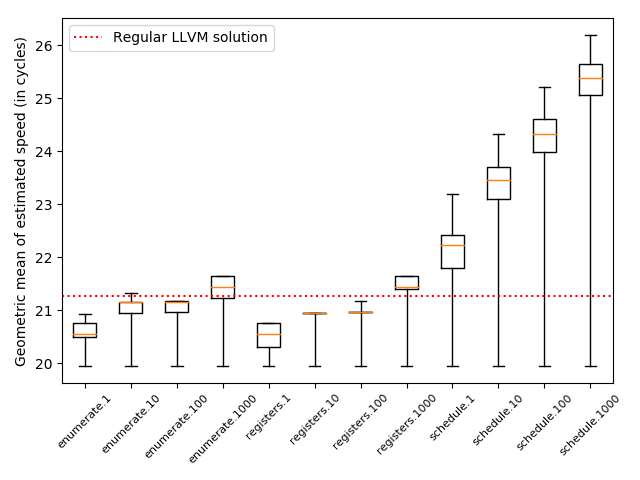
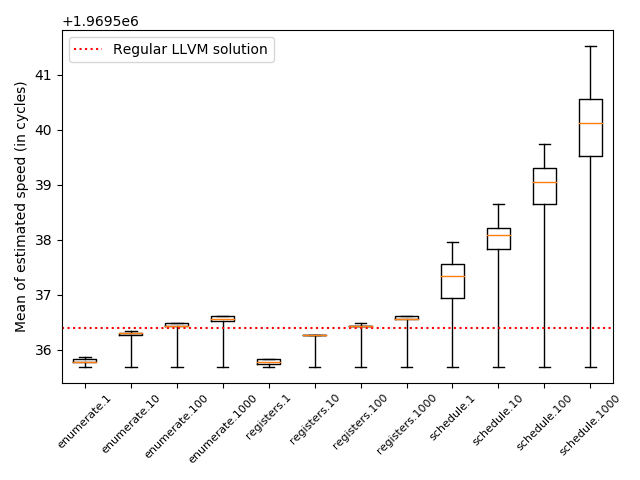
Change presentation of cost

diff --git a/results/result.tex b/results/result.tex
@@ -6,7 +6,7 @@ metric, but all general discussion will be in chapter \ref{chapter:discussion}.
 
 \section{Generation Time}
 
-\begin{figure}[h]
+\begin{figure}[ht]
 	\centering
 	\includegraphics[width=\textwidth,height=0.5\textheight]{results/figures/generator_time}
 	\caption{The execution time of the code generator at sampling rate 1000 (i.e 1000000 solutions for every function). Each marker represents the finished generation of a function. The markers are ordered so that the nth marker on every line represents the same function. Total time is annotated as hours and minutes.}
@@ -36,14 +36,14 @@ heuristic for the schedule strategy.
 \section{Cost}
 \label{sec:cost_result}
 
-\begin{figure}[h]
+\begin{figure}[ht]
 	\centering
 	\includegraphics[width=\textwidth,height=0.5\textheight]{results/figures/cost_speed}
 	\caption{The cost (speed) distributions for every strategy and sampling rate. The cost of the LLVM solution is included for reference.}
 	\label{fig:cost-speed}
 \end{figure}
 
-\begin{figure}[h]
+\begin{figure}[ht]
 	\centering
 	\includegraphics[width=\textwidth,height=0.5\textheight]{results/figures/cost_size}
 	\caption{The code size distributions for every strategy and sampling rate. The cost of the LLVM solution is included for reference.}
@@ -52,11 +52,13 @@ heuristic for the schedule strategy.
 
 Figure \ref{fig:cost-speed} and Figure \ref{fig:cost-size} shows the distributions of the
 estimated cost in cycles and the code size for each strategy and sampling rate
-respectively. Both the cost in cycles and the code size for a program version is
-calculated as the geometric mean between the cost of the individual functions that make
+respectively. The cost in terms of code size is calculated as the sum of the cost for each
+function, i.e. the number of instructions in the program version. Cost in terms of speed
+is calculated as the mean between the costs of the individual functions that make
 up the program version. That is, for every strategy and sampling rate there are 1000
-values for each cost metric, where each value is a geometric mean between the cost values
-of 23 functions.
+values for each cost metric. For the size metric each of those values is a sum of 23
+values. For the speed metric each of those values is a mean between 23 values. Note that
+the cost in speed is weighted against estimated execution frequency (see Section \ref{sec:cost})
 
 All strategies perform better for lower sampling rates both in terms of speed and in terms
 of code size. As described in section \ref{sec:sampling_rate}, this is expected. Both the
@@ -77,11 +79,9 @@ lower cost solutions are explored first, this is also the optimal speed.
 
 \begin{figure}[htp]
 	\centering
-	\includegraphics[width=\textwidth,height=\textheight]{results/figures/gadgets}
-	\caption{The ratio of occurrence for each gadget broken down by strategy and sampling rate.
-The x-axis displays the gadget ids. The first non-zero x-tick and the second non-zero x-tick
-displays the first gadget that only appear in one program version and the total number
-of unique gadgets, respectively. The data is sorted from most to least frequent to allow
+	\includegraphics[width=\textwidth,height=0.9\textheight]{results/figures/gadgets}
+	\caption{\small The ratio of occurrence for each gadget broken down by strategy and sampling rate.
+The x-axis displays the gadget ids. The data is sorted from most to least frequent to allow
 for a better overview.}
 	\label{fig:gadgets}
 \end{figure}
